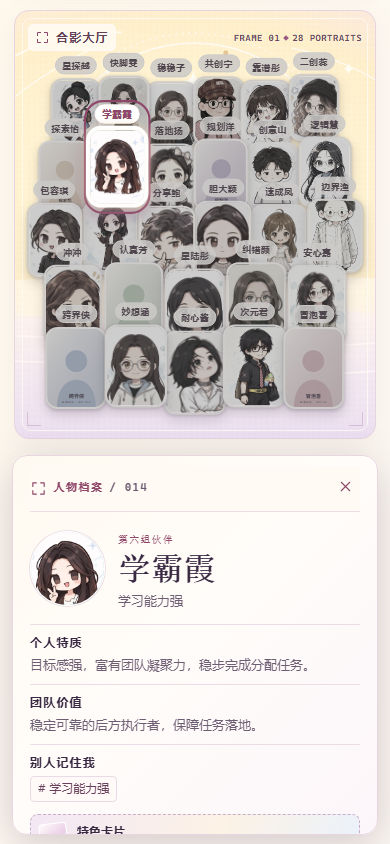
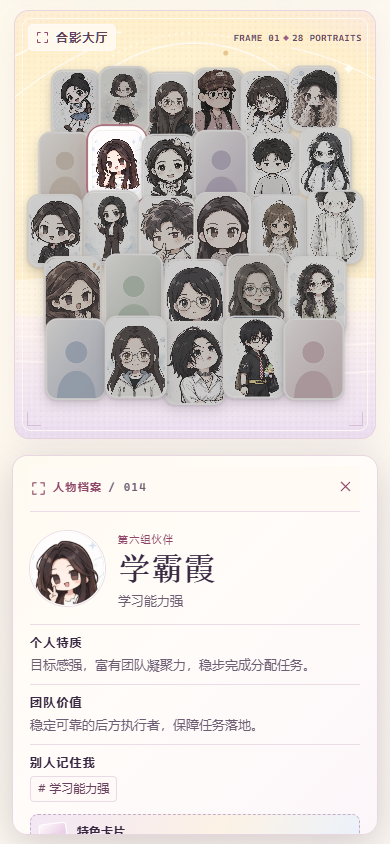
Fix portrait selection and member links after review

diff --git a/tests/portrait-hall.spec.ts b/tests/portrait-hall.spec.ts
@@ -1,4 +1,21 @@
 import { expect, test } from '@playwright/test'
+import type { Locator, Page } from '@playwright/test'
+
+async function selectPortrait(page: Page, portrait: Locator, touch: boolean) {
+  await portrait.scrollIntoViewIfNeeded()
+  const aim = await portrait.locator('img').evaluate((image) => {
+    const { left, top, width, height } = image.getBoundingClientRect()
+    const x = left + width * 0.5
+    const y = top + height * 0.4
+    const hit = document.elementFromPoint(x, y)?.closest('.portrait')?.getAttribute('data-member-id')
+    return { x, y, hit }
+  })
+  const memberId = await portrait.getAttribute('data-member-id')
+  expect(aim.hit).toBe(memberId)
+  if (touch) await page.touchscreen.tap(aim.x, aim.y)
+  else await page.mouse.click(aim.x, aim.y)
+  await expect(portrait).toHaveAttribute('aria-pressed', 'true')
+}
 
 test('the 28-person group hall loads, remains clickable, and supports search', async ({ page, isMobile }) => {
   const errors: string[] = []
@@ -15,22 +32,18 @@ test('the 28-person group hall loads, remains clickable, and supports search', a
     images.map((image) => image.getAttribute('src')),
   )
   expect(new Set(assets).size).toBe(28)
+  expect(await portraits.allTextContents()).toEqual(Array<string>(28).fill(''))
+  for (const asset of assets) {
+    if (!asset?.endsWith('.svg')) continue
+    const response = await page.request.get(asset)
+    expect(response.ok()).toBe(true)
+    expect(await response.text()).not.toMatch(/<text\b/)
+  }
 
   const profile = page.locator('#member-profile')
   for (const portrait of await portraits.all()) {
-    await portrait.scrollIntoViewIfNeeded()
-    const aim = await portrait.locator('img').evaluate((image) => {
-      const { left, top, width, height } = image.getBoundingClientRect()
-      const x = left + width * 0.5
-      const y = top + height * 0.4
-      const hit = document.elementFromPoint(x, y)?.closest('.portrait')?.getAttribute('data-member-id')
-      return { x, y, hit }
-    })
     const memberId = await portrait.getAttribute('data-member-id')
-    expect(aim.hit).toBe(memberId)
-    if (isMobile) await page.touchscreen.tap(aim.x, aim.y)
-    else await page.mouse.click(aim.x, aim.y)
-    await expect(portrait).toHaveAttribute('aria-pressed', 'true')
+    await selectPortrait(page, portrait, isMobile)
     await expect(profile.locator('.profile-avatar img')).toHaveAttribute('src', new RegExp(`${memberId}\\.(webp|svg)$`))
     await expect(profile.locator('#profile-name')).not.toHaveText('')
     await profile.getByRole('button', { name: '关闭个人名片' }).click()
@@ -66,4 +79,36 @@ test('the 28-person group hall loads, remains clickable, and supports search', a
   await expect(page.getByText(/没有找到人物/)).toBeVisible()
   expect(await page.evaluate(() => document.documentElement.scrollWidth - innerWidth)).toBe(0)
   expect(errors).toEqual([])
+})
+
+test('switches portraits without closing the current profile', async ({ page, isMobile }) => {
+  await page.goto('/')
+  const profile = page.locator('#member-profile')
+  for (const id of ['001', '015', '002', '020']) {
+    const portrait = page.locator(`[data-member-id="member-${id}"]`)
+    await selectPortrait(page, portrait, isMobile)
+    await expect(profile.locator('.profile-index')).toHaveText(`/ ${id}`)
+  }
+})
+
+test('closing a profile opened by a legacy link clears the member on reload', async ({ page }) => {
+  const portrait = page.locator('[data-member-id="member-014"]')
+  await page.goto('/?from=test#014')
+  await expect(portrait).toHaveAttribute('aria-pressed', 'true')
+  await expect(page).toHaveURL(/\?from=test&member=014$/)
+
+  const close = page.getByRole('button', { name: '关闭个人名片' })
+  await close.click()
+  await expect(page).toHaveURL(/\?from=test$/)
+  await page.reload({ waitUntil: 'networkidle' })
+  await expect(close).toHaveCount(0)
+
+  const label = await portrait.getAttribute('aria-label')
+  const nickname = label?.replace(/^014 /, '')
+  expect(nickname).toBeTruthy()
+  await page.goto(`/?member=${encodeURIComponent(nickname!)}#gallery`)
+  await expect(portrait).toHaveAttribute('aria-pressed', 'true')
+  await expect(page).toHaveURL(/\?member=014#gallery$/)
+  await close.click()
+  await expect(page).toHaveURL(/\/#gallery$/)
 })

diff --git a/components/portrait-hall.tsx b/components/portrait-hall.tsx
@@ -36,6 +36,25 @@ function portraitStyle(member: Member) {
   } as CSSProperties
 }
 
+function findLinkedMember(value: string | null) {
+  const target = value?.normalize('NFKC').trim()
+  if (!target) return
+  const number = /^\d+$/.test(target) ? target.padStart(3, '0') : target
+  return members.find((member) => member.memberNumber === number || member.nickname === target)
+}
+
+function findLegacyLinkedMember(hash: string) {
+  return /^#\d+$/.test(hash) ? findLinkedMember(hash.slice(1)) : undefined
+}
+
+function syncMemberLink(memberNumber?: string) {
+  const url = new URL(window.location.href)
+  if (memberNumber) url.searchParams.set('member', memberNumber)
+  else url.searchParams.delete('member')
+  if (findLegacyLinkedMember(url.hash)) url.hash = ''
+  if (url.href !== window.location.href) window.history.replaceState(window.history.state, '', url)
+}
+
 function Profile({ member, onClose }: { member: Member; onClose: () => void }) {
   const details = member.profile
   const memories = details ? details.memory.split(/[，,、]\s*/).filter(Boolean) : []
@@ -106,6 +125,7 @@ export default function PortraitHall() {
 
   function clearSelection() {
     setSelectedId(null)
+    syncMemberLink()
   }
 
   function reset() {
@@ -121,8 +141,11 @@ export default function PortraitHall() {
   }
 
   function selectMember(memberId: string, fromSearch = false) {
+    const member = members.find((entry) => entry.memberId === memberId)
+    if (!member) return
     setSelectedId(memberId)
     setShowResults(false)
+    syncMemberLink(member.memberNumber)
     const stage = stageRef.current
     const portrait = stage?.querySelector<HTMLButtonElement>(`[data-member-id="${memberId}"]`)
     if (fromSearch) {
@@ -173,26 +196,14 @@ export default function PortraitHall() {
     return () => window.removeEventListener('keydown', handleEscape)
   }, [selectedId, showResults, term])
 
-  // 深链接：?member=014 或 #014 直接翻开某位成员的名片，方便现场演示和单独分享。
+  // Old numeric fragments open a profile and are converted to the shareable query URL.
   useEffect(() => {
     if (deepLinkDone.current) return
     deepLinkDone.current = true
-    const params = new URLSearchParams(window.location.search)
-    const target = (params.get('member') || window.location.hash.replace(/^#/, '')).trim()
-    if (!target) return
-    const normalized = /^\d+$/.test(target) ? target.padStart(3, '0') : target
-    const found = members.find((member) => member.memberNumber === normalized || member.nickname === target)
+    const url = new URL(window.location.href)
+    const found = findLinkedMember(url.searchParams.get('member')) ?? findLegacyLinkedMember(url.hash)
     if (found) selectMember(found.memberId, true)
   }, [])
-
-  // 地址栏始终跟着当前名片走，复制出去就是这位成员的直达链接。
-  useEffect(() => {
-    const url = new URL(window.location.href)
-    const current = members.find((member) => member.memberId === selectedId)
-    if (current) url.searchParams.set('member', current.memberNumber)
-    else url.searchParams.delete('member')
-    window.history.replaceState(null, '', `${url.pathname}${url.search}${url.hash}`)
-  }, [selectedId])
 
   return (
     <>
@@ -287,9 +298,7 @@ export default function PortraitHall() {
                   aria-controls={active ? 'member-profile' : undefined}
                   onClick={() => selectMember(member.memberId)}
                 >
-                  <span className="portrait-shadow" />
                   <img src={member.avatar} alt="" draggable={false} />
-                  <span className="portrait-name">{member.nickname}</span>
                 </button>
               )
             })}

diff --git a/app/globals.css b/app/globals.css
@@ -91,9 +91,6 @@ button svg, .micro svg, .stage-title svg, .stage-toolbar svg { width: 19px; heig
   top: var(--y);
   width: calc(var(--width) * var(--scale));
   transform: translate(-50%, -50%);
-  display: grid;
-  justify-items: center;
-  gap: 4px;
   padding: 0;
   border: 0;
   background: none;
@@ -102,7 +99,6 @@ button svg, .micro svg, .stage-title svg, .stage-toolbar svg { width: 19px; heig
 }
 .portrait img {
   display: block;
-  grid-area: 2 / 1;
   width: 100%;
   aspect-ratio: 3 / 4;
   object-fit: cover;
@@ -112,25 +108,8 @@ button svg, .micro svg, .stage-title svg, .stage-toolbar svg { width: 19px; heig
   position: relative;
   box-shadow: 0 5px 12px #533c5438, 0 1px 3px #533c5430;
 }
-.portrait-name {
-  grid-area: 1 / 1;
-  max-width: 100%;
-  overflow: hidden;
-  text-overflow: ellipsis;
-  white-space: nowrap;
-  padding: 1px 8px;
-  border-radius: 999px;
-  background: #fffaf3d9;
-  border: 1px solid #fff9f7;
-  color: #5d3f55;
-  font-size: 11px;
-  font-weight: 700;
-  letter-spacing: .06em;
-}
 .portrait-muted { filter: brightness(.86) saturate(.43) contrast(.84); }
-.portrait[aria-pressed="true"] { z-index: 10; opacity: 1; filter: none; transform: translate(-50%, calc(-50% - 7px)) scale(1.075); }
 .portrait[aria-pressed="true"] img { box-shadow: 0 0 0 2px #fff, 0 0 2px #fff, 0 0 10px #ffe9c2, 0 8px 16px #703c6680; }
-.portrait[aria-pressed="true"] .portrait-name { background: #fff; color: var(--rose); }
 .portrait:focus-visible { outline-offset: 2px; border-radius: 14px; }
 
 .profile {
@@ -212,7 +191,6 @@ button svg, .micro svg, .stage-title svg, .stage-toolbar svg { width: 19px; heig
   .stage-corner-left { left: 12px; }
   .stage-corner-right { right: 12px; }
   .portrait { --width: min(17cqw, 90px); z-index: var(--mobile-layer); left: var(--mobile-x); top: var(--mobile-y); width: calc(var(--width) * var(--mobile-scale)); }
-  .portrait-name { font-size: 9px; padding: 1px 6px; letter-spacing: .04em; }
   .profile { left: 12px; margin-inline: auto; }
   .site-footer { flex-wrap: wrap; gap: 3px 10px; }
 }

diff --git a/playwright.config.ts b/playwright.config.ts
@@ -9,6 +9,7 @@ export default defineConfig({
   projects: [
     { name: 'desktop', use: { viewport: { width: 1440, height: 900 } } },
     { name: 'mobile', use: { viewport: { width: 390, height: 844 }, isMobile: true, hasTouch: true } },
+    { name: 'wide-touch', use: { viewport: { width: 600, height: 800 }, isMobile: true, hasTouch: true } },
   ],
   webServer: {
     command: 'npm run start -- --port 3219',

diff --git a/app/layout.tsx b/app/layout.tsx
@@ -4,7 +4,7 @@ import './globals.css'
 
 export const metadata: Metadata = {
   title: '群像纪念册 · 日光留影',
-  description: '在一张合照里，遇见 26 位虚构测试人物。群像纪念册排布原型。',
+  description: '在一张合照里，遇见第六组的 28 位伙伴。',
   icons: { icon: '/archive-mark.svg' },
 }
 

diff --git a/docs/项目结构与修改指南.md b/docs/项目结构与修改指南.md
@@ -2,32 +2,34 @@
 
 ## 页面如何工作
 
-打开首页时，`app/page.tsx` 渲染 `PortraitHall`。`app/layout.tsx` 设置页面语言、标题、描述和全局样式。页面从 `data/members.ts` 读取测试成员，每人有独立图像、编号、查找名称和稳定的 `memberId`。`data/portrait-layout.ts` 把两套分排配置换算成坐标，组件把坐标传给 CSS，浏览器把每张图定位到舞台。
+打开首页时，`app/page.tsx` 渲染 `PortraitHall`。`app/layout.tsx` 设置页面语言、标题、描述和全局样式。页面从 `data/members.ts` 读取成员资料，每人有独立图像、编号、查找名称和稳定的 `memberId`。`data/portrait-layout.ts` 把两套分排配置换算成坐标，组件把坐标传给 CSS，浏览器把每张图定位到舞台。
 
 搜索先规范化输入，可以识别全角数字和开头的井号。匹配结果按编号或查找名称筛选。点击结果、按 Enter 或点击画面中的人物，都通过同一个 `memberId` 选中。该 ID 决定高亮、变暗和资料内容。窄屏打开底部资料面板时会滚动页面，把选中人物的脸带到面板上方。
+
+直达链接读取 `?member=` 中的编号或查找名称。打开后，地址栏统一使用编号。旧的数字片段（如 `#014`）会在打开时转换。关闭资料时，链接只清理成员定位信息。
 
 ## 改动入口与画面变化
 
 | 想改什么 | 在哪里改 | 可观察到的变化 |
 | --- | --- | --- |
-| 改测试人物的查找名称 | `data/members.ts` 的 `testRoster` | 搜索命中词、结果名称、资料标题和人物的可访问名称随之更新。人物脚下仍然没有文字牌 |
-| 改某人的简介或资料 | `data/members.ts` 的 `testProfiles` | 点开该人物后显示新的资料。没有完整资料的成员使用简版面板 |
+| 改成员的查找名称 | `data/members.ts` 的 `roster` | 搜索命中词、结果名称、资料标题和人物的可访问名称随之更新 |
+| 改某人的简介或资料 | `data/members.ts` 中成员的 `profile` | 点开该人物后显示新的资料。没有完整资料的成员使用简版面板 |
 | 调换两人的位置 | `data/portrait-layout.ts` 的 `slots` | 两人交换在合影里的位置，编号和搜索结果仍对应原人物。桌面与手机分别调整 |
-| 一排更宽、更低或更大 | 同文件的 `left`、`right`、`bottom`、`scale` | 调大横向范围会拉开一排，调大基线值会下移一排，调大缩放会增加前后遮挡 |
+| 一排更宽、更低或更大 | 同文件的 `left`、`right`、`y`、`baseScale` 和 `stepScale` | 调大横向范围会拉开一排，调大 `y` 会下移一排，调大缩放会增加前后遮挡 |
 | 改搜索行为或高亮后滚动 | `components/portrait-hall.tsx` 的匹配与 `selectMember` | 结果筛选、选中状态或目标在屏幕上的位置变化。修改后验证空结果、编号、名称和连续切换 |
-| 改颜色、合影比例、亮暗或点击区 | `app/globals.css` | 主题色、舞台高宽、前后排观感或人物可点区域变化。注意 `.portrait::after` 的点击范围独立于透明图像 |
+| 改颜色、合影比例、亮暗或点击区 | `app/globals.css` | 主题色、舞台高宽、前后排观感或卡片可点区域变化 |
 | 改背景或站台装饰 | `public/assets/backgrounds/sunlit-paper.svg` 与 `.stage` | 舞台色彩、弧线和星点变化，人物图片仍按各自图层显示 |
 
 ### 排布规则
 
-行从后到前定义。每个 `slots` 值对应测试编号的数字部分，桌面和手机各应恰好使用每个编号一次。行内从 `left` 到 `right` 均布，`bottom` 按舞台高度的百分比计，以图像底部中心为锚点。布局会给行中央少量下沉与放大。前排图层高于后排，选中人物再提升一层。屏幕宽度不超过 600 像素时用手机五排。宽度不超过 900 像素时用底部资料面板。
+行从后到前定义。每个 `slots` 值对应成员编号的数字部分，桌面和手机各应恰好使用每个编号一次。行内从 `left` 到 `right` 均布，`y` 按舞台高度的百分比计，以卡片中心为锚点。前排图层高于后排，选中时用白边和光晕标记。屏幕宽度不超过 600 像素时用手机五排。宽度不超过 900 像素时用底部资料面板。
 
-**示例。** 想让桌面第二排两侧少挤一些，可以把第二排的 `left` 从 14 调到 12，`right` 从 86 调到 88。改完查看 1440 × 900 的全景与打开右侧资料后的画面，再点两端人物和邻近人物。
+**示例。** 想拉开桌面第二排，可以把第二排的 `left` 从 13 调到 11，`right` 从 87 调到 89。改完查看 1440 × 900 的全景与打开右侧资料后的画面，再点两端人物和邻近人物。
 
-### 替换测试形象
+### 替换占位形象
 
-保持一个人物一张透明图。现有 SVG 使用统一的 210 × 250 画布，带脚底留白。替换为 PNG 时，先对齐透明边界、脚底和比例，再更新 `data/members.ts` 中的素材地址规则或对应条目。若轮廓差异较大，同时复核 CSS 点击区。为避免影响原型数据，新增素材优先在任务分支里用授权测试图演练。
+保持一人一张图。新画像获准公开后，用约 3:4 的 WebP 展示图替换占位 SVG，再更新 `data/members.ts` 中对应的 `avatar`。同时检查合影裁切、名片头像和点击位置。
 
 ### 如何复现并解释改动
 
-从 [README](../README.md) 启动，先打开 `v0.1.0` 的页面截图对照基线。桌面用 1440 × 900，手机用 390 × 844。先看全景，再试 `001`、`小满`、`026` 和 `晨露`。点击前后排、关闭资料、清空搜索后确认能回到全景。浏览器自动测试跑相同的桌面和手机尺寸。若改动视觉，记录实际生效的文件、改变的值、前后截图和还需要验收的设备。
+从 [README](../README.md) 启动，与当前桌面和手机截图对照。先看全景，再试编号 `001`、`028`，以及链接 `/?member=014`。连续点击前后排后，检查高亮和资料是否同时切换。关闭资料或清空搜索后，确认能回到全景。若改动视觉，记录生效的文件、改变的值和前后截图。

diff --git a/README.md b/README.md
@@ -1,6 +1,6 @@
 # 群像纪念册 · 日光留影
 
-北辰青年线上实习 · 第六组的 28 人群像。桌面四排，从后往前各 7、7、7、7 人。手机五排，从后往前各 6、6、6、5、5 人。合影以圆角卡片展示成员形象，点击卡片可以打开个人资料，也可以输入编号或查找名称，从搜索结果定位人物。打开个人资料后，其余人物会变暗，点舞台空白处、关闭资料或按 Esc 可以取消选择。每个成员都有专属直达链接：访问 `/?member=014`（或 `/?member=稳稳子`）会直接翻开对应名片，地址栏也会随当前名片同步更新，方便分享和现场演示。清空搜索和「返回全体」会一并恢复整张合照。
+北辰青年线上实习 · 第六组的 28 人群像。桌面四排，从后往前各 7、7、7、7 人。手机五排，从后往前各 6、6、6、5、5 人。合影卡片只展示形象。点击卡片可以打开个人资料，也可以按编号或查找名称搜索。选中卡片会显示白边和光晕，其他人物会变暗。访问 `/?member=014` 可以直达对应名片，地址栏会随选中的人物更新。点舞台空白处、关闭资料或按 Esc 可以取消选择。清空搜索和「返回全体」会恢复整张合照。
 
 ![28 人桌面合影](docs/screenshots/desktop.png)
 
@@ -8,23 +8,22 @@
 
 ## 本地运行
 
-基线标签为 `v0.1.0`。首次下载后，在项目目录使用 [.node-version](.node-version) 中的 Node.js 24.16.0，并用 `npm ci` 按 [依赖锁文件](package-lock.json) 安装。页面与图片都来自仓库。
+首次下载后，在项目目录使用 [.node-version](.node-version) 中的 Node.js 24.16.0，并用 `npm ci` 按 [依赖锁文件](package-lock.json) 安装。页面与图片都来自仓库。
 
 ```bash
 git clone https://github.com/fushuyiliu/group-portrait-archive.git
 cd group-portrait-archive
-git switch --detach v0.1.0
 npm ci --cache .npm-cache
 npm run dev -- --port 3218
 ```
 
-以上用于复现指定基线。准备贡献时，按 [协作指南](CONTRIBUTING.md) 从最新 `main` 开任务分支。Windows PowerShell 若限制 npm 脚本执行，可把命令中的 `npm` 替换成 `npm.cmd`。
+要查看最早的 26 人测试版，可单独切换到 `v0.1.0` 标签。准备贡献时，按 [协作指南](CONTRIBUTING.md) 从最新 `main` 开任务分支。Windows PowerShell 若限制 npm 脚本执行，可把命令中的 `npm` 替换成 `npm.cmd`。
 
 浏览器打开 [本地预览](http://127.0.0.1:3218/)，按 Ctrl+C 可停止预览。桌面用 1440 × 900，手机用 390 × 844，等人物加载后与 [基线截图](#自测与截图) 对照。页面使用系统字体，系统差异会影响文字字形。
 
 ## 浏览器测试
 
-在项目目录运行以下命令。测试会在端口 3219 临时启动生产构建，逐个点选 26 位人物并验证编号和名称搜索。
+在项目目录运行以下命令。测试会在端口 3219 临时启动生产构建，逐个点选 28 位成员，并验证搜索、连续切换和名片直达链接。
 
 ```bash
 npm run typecheck
@@ -59,6 +58,6 @@ Linux 若缺少 Chromium 系统依赖，可使用 `npx playwright install --with
 
 ## 后续补充画像
 
-1. 把新画像裁成竖幅（约 3:4），存为 `public/assets/members/member-0NN.webp`。
+1. 确认画像可公开后，把展示图裁成约 3:4 的竖幅，存为 `public/assets/members/member-0NN.webp`。
 2. 更新 `data/members.ts` 中对应成员的 `avatar` 路径。
 3. 本地 `npm run dev` 确认形象、搜索和资料名片正常后，按协作指南提交。

diff --git a/docs/阶段一自测.md b/docs/阶段一自测.md
@@ -1,25 +1,26 @@
-# 阶段一 · 26 人排布自测
+# 第六组 · 28 人排布自测
 
-在 Windows 本地预览中使用 Chrome 和 Edge 加载网页。每个视口逐一点选 26 位人物的脸部中心，再运行 5 组编号和名称搜索。桌面以鼠标操作，触控视口使用浏览器的触屏模拟。
+在 Windows 本地运行生产构建，用 Playwright Chromium 验证桌面鼠标和两种触控视口。每个视口逐一点选 28 位成员，再验证搜索、连续切换和直达链接。
 
 | 浏览器与视口 | 结果 |
 | --- | --- |
-| Chrome 1440 × 900、912 × 720 | 通过 |
-| Edge 1024 × 768 | 通过 |
-| Chrome 触控 900 × 780、768 × 1024、600 × 800、390 × 844、320 × 568 | 通过 |
+| Chromium 1440 × 900，桌面鼠标 | 通过 |
+| Chromium 390 × 844，触控模拟 | 通过 |
+| Chromium 600 × 800，触控模拟 | 通过 |
 
 ## 检查结果
 
-- 26 张独立 SVG 均成功加载，合影中的人物下方无文字标签。逐个点选后，资料面板的编号和图片与选中人物对应。
-- 全角编号、三位编号、查找名称和多条匹配均可查找。点击结果或按 Enter 能定位到目标，无结果时显示提示。
-- 同一时刻只有一个人物处于选中状态，其余 25 人变暗。关闭资料、点舞台空白或使用「返回全体」可恢复合影，清空搜索也会取消选中。
+- 23 张 WebP 和 5 张占位 SVG 均独立加载，合影卡片无文字标签。逐个点选后，资料面板的编号和图片与选中成员对应。
+- 全角编号和查找名称可用于查找。点击结果或按 Enter 能定位目标，无结果时显示提示。
+- 资料面板打开时，可连续点击邻近卡片并更新资料。关闭资料或清空搜索可取消选中。
+- 旧链接 `#014` 打开后会转成 `?member=014`，关闭并刷新时恢复合影。查找名称也可用于直达链接。
 - 桌面显示右侧名片。窄屏滚动到目标人物，使其脸部位于底部面板上方。
-- 各测试视口未出现页面横向溢出。测试过程中未观察到浏览器控制台错误、页面异常或失败的资源加载。
+- 各测试视口未出现页面横向溢出或页面脚本异常。
 - TypeScript 检查和生产构建均通过。
 
 ## 验收边界
 
-手机结果来自触控模拟，iOS Safari 和安卓真机体验仍待验收。短屏上的完整资料可以在面板内滚动。26 张测试图共用一个适合当前轮廓的点击范围。换用正式 PNG 后，应根据图像留白和前后排遮挡复核点击区域。
+手机结果来自触控模拟，iOS Safari 和安卓真机体验仍待验收。短屏上的完整资料可以在面板内滚动。补充其余 5 张画像后应复核裁切和点击位置。
 
 ## 实际运行截图
 

diff --git a/AGENTS.md b/AGENTS.md
@@ -5,9 +5,9 @@
 ## 复现基线
 
 - Node.js 版本见 `.node-version`，用 `npm ci` 读取锁文件。运行 `npm run dev -- --port 3218`，打开 `http://127.0.0.1:3218/`。
-- 当前分支用 28 位第六组成员的真实画像（webp）与统一风格占位 SVG。桌面四排，窄屏五排，卡片下方有化名名牌。查找示例为 `001`、`稳稳子`、`028`、`冒泡喜`。
+- 当前版本展示第六组 28 位成员，含 23 张 WebP 画像和 5 张占位 SVG。桌面四排，窄屏五排，合影中的卡片只展示形象。编号和查找名称用于搜索与资料面板。
 - 用 [桌面 1440 × 900](docs/screenshots/desktop.png) 和 [手机 390 × 844](docs/screenshots/mobile.png) 比对构图，先等人物图片全部加载。不同系统的字体回退可能带来轻微文字差异。
-- 项目开箱可运行。正式成员原图、对照表、联系方式、凭据和本地生成目录应保留在仓库外。
+- 项目开箱可运行。仓库只收录获准公开的展示素材。成员原图、对照表、联系方式、凭据和本地生成目录应保留在仓库外。
 
 ## 找到改动入口
 

diff --git a/CONTRIBUTING.md b/CONTRIBUTING.md
@@ -31,4 +31,4 @@
 - 确认改动只覆盖 Issue 范围，检查代码、文档、截图和真实点击行为。
 - 确认 `Prototype verification` 通过，处理评审意见，再用 **Squash and merge** 合并。更新 PR 后应复查新的提交。
 - `main` 是可运行的验收基线。主分支要求通过 PR、至少一名有写权限的评审者批准及自动检查通过。维护者提交自己的 PR 时由另一名有写权限的维护者评审。
-- 正式成员的上传权限、上线范围和素材使用由项目负责人确认。测试预览和公开仓库只使用可公开的虚构测试素材。
+- 正式成员的上传权限、上线范围和素材使用由项目负责人确认。公开仓库只收录获准公开的展示素材。
